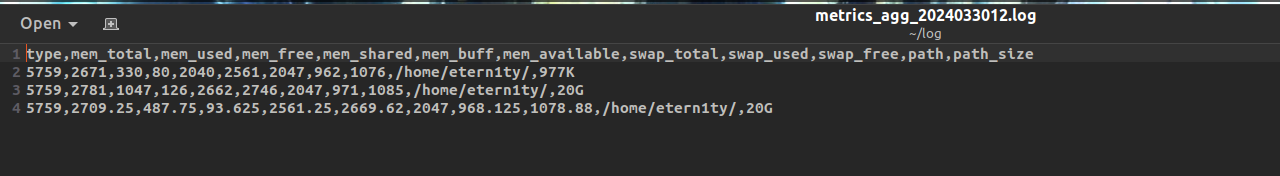
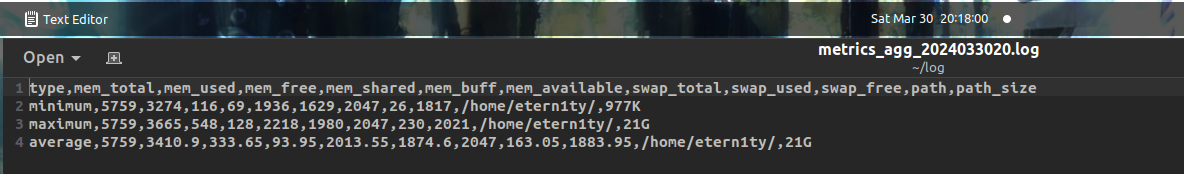
refactor README.md, fix: README.md, fix: soal_4

diff --git a/README.md b/README.md
@@ -1068,7 +1068,7 @@ echo "type,mem_total,mem_used,mem_free,mem_shared,mem_buff,mem_available,swap_to
 
 awk -F "," 'BEGIN {for (i=1; i<=9; i++) t[i] = ""; t[12] = 999999} 
 {for (i=1; i<=9; i++) if (NR==1 || $i < t[i]) t[i] = $i; if ($12 < t[12]) t[12] = $12} 
-END {for (i=1; i<=9; i++) printf t[i]","; printf $10","; disk=sprintf("numfmt --to=iec %d",t[12]); disk | getline fixed; close(disk); print fixed}
+END {printf "minimum,"; for (i=1; i<=9; i++) printf t[i]","; printf $10","; disk=sprintf("numfmt --to=iec %d",t[12]); disk | getline fixed; close(disk); print fixed}
 ' tempaggr.txt | paste -s -d '' >> "metrics_agg_$cur_time.log"
 ```
 
@@ -1088,7 +1088,7 @@ Untuk awk nilai maximum hanya berbeda di tanda yang dipakai.
 ```bash
 awk -F "," 'BEGIN {for (i=1; i<=9; i++) t[i] = ""; t[12] = -999999}
 {for (i=1; i<=9; i++) if (NR==1 || $i > t[i]) t[i] = $i; if ($12 > t[12]) t[12] = $12} 
-END {for (i=1; i<=9; i++) printf t[i]","; printf $10","; disk=sprintf("numfmt --to=iec %d",t[12]); disk | getline fixed; close(disk); print fixed}
+END {printf "maximum,"; for (i=1; i<=9; i++) printf t[i]","; printf $10","; disk=sprintf("numfmt --to=iec %d",t[12]); disk | getline fixed; close(disk); print fixed}
 ' tempaggr.txt | paste -s -d '' >> "metrics_agg_$cur_time.log"
 ```
 
@@ -1099,7 +1099,7 @@ Perbedaan utama terletak di for di blok BEGIN yang kedua, dimana for ini akan me
 ```bash
 awk -F "," 'BEGIN {for (i=1; i<=9; i++) t[i] = 0; t[12] = 0} 
 {for (i=1; i<=9; i++) t[i]+=$i; t[12]+=$12} 
-END {for (i=1; i<=9; i++) printf t[i]/NR","; printf $10","; disk=sprintf("numfmt --to=iec %d",t[12]/NR); disk | getline fixed; close(disk); print fixed}
+END {printf "average,";  for (i=1; i<=9; i++) printf t[i]/NR","; printf $10","; disk=sprintf("numfmt --to=iec %d",t[12]/NR); disk | getline fixed; close(disk); print fixed}
 ' tempaggr.txt | paste -s -d '' >> "metrics_agg_$cur_time.log"
 ```
 
@@ -1115,7 +1115,7 @@ Output
 
 ### minute_log.sh
 
-![min_log_image](assets/minlog.png) 
+![min_log_image](assets/metrics.png) 
 
 ### aggregate_minutes_to_hourly_log.sh 
 (mengambil data min_log yang ada 1 jam sebelumnya)
